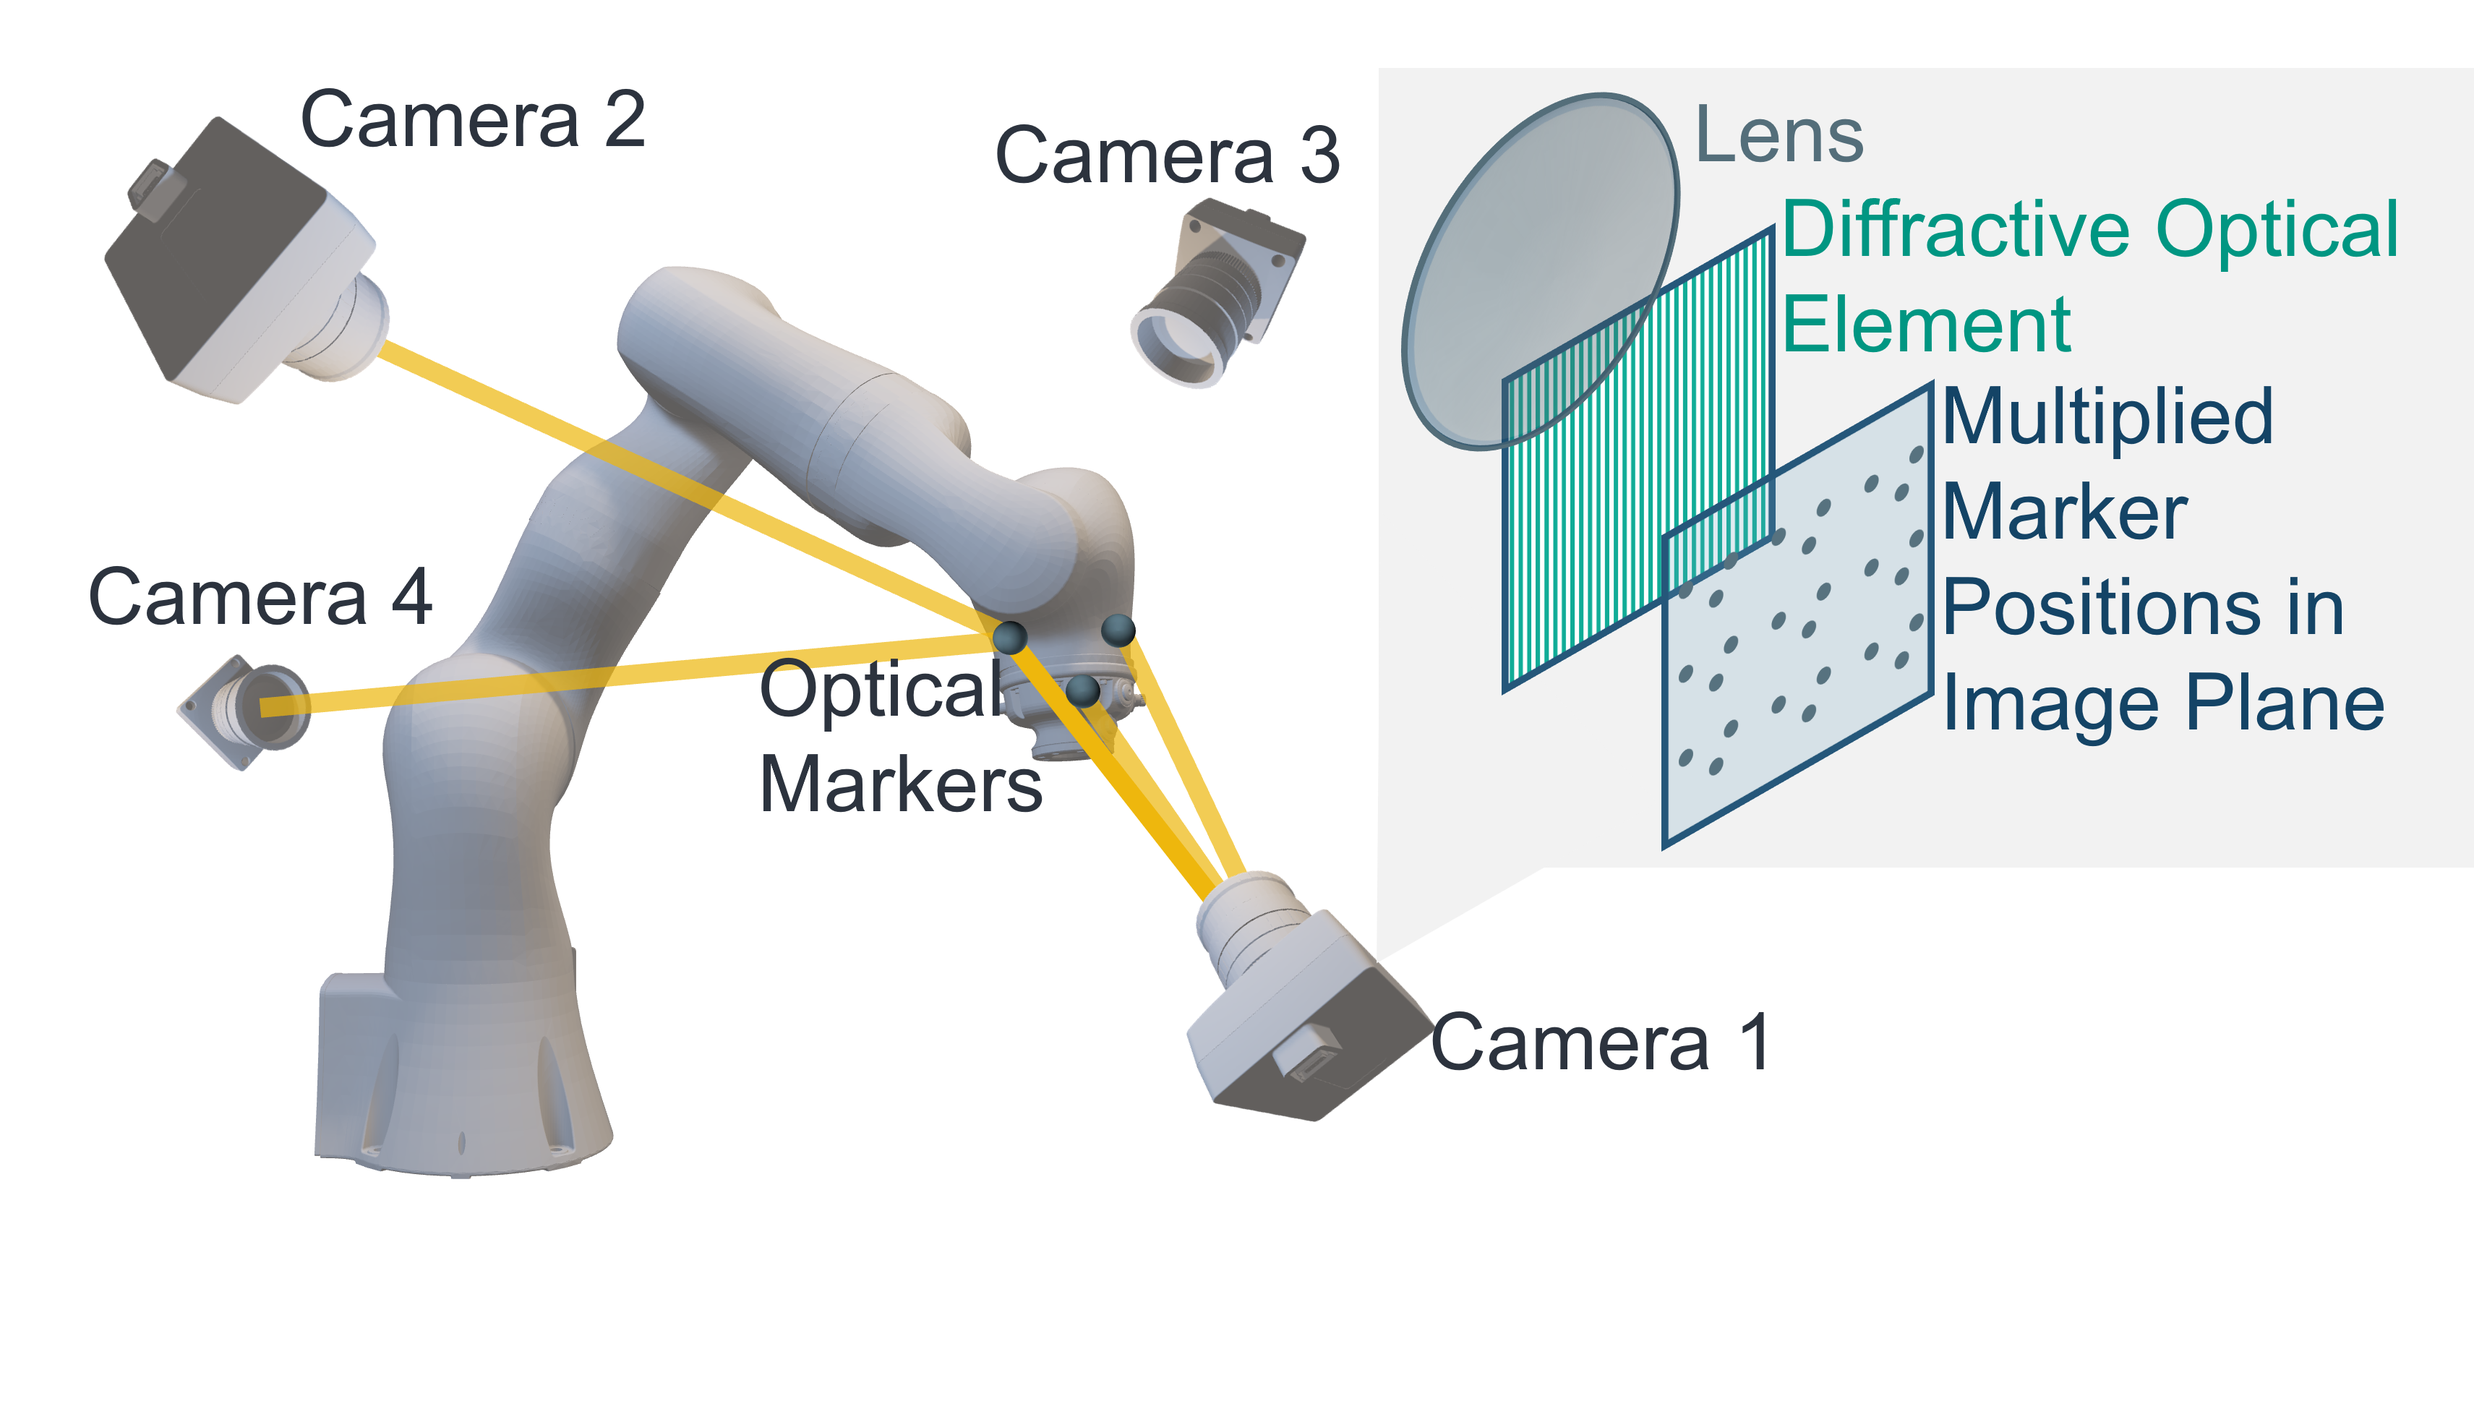
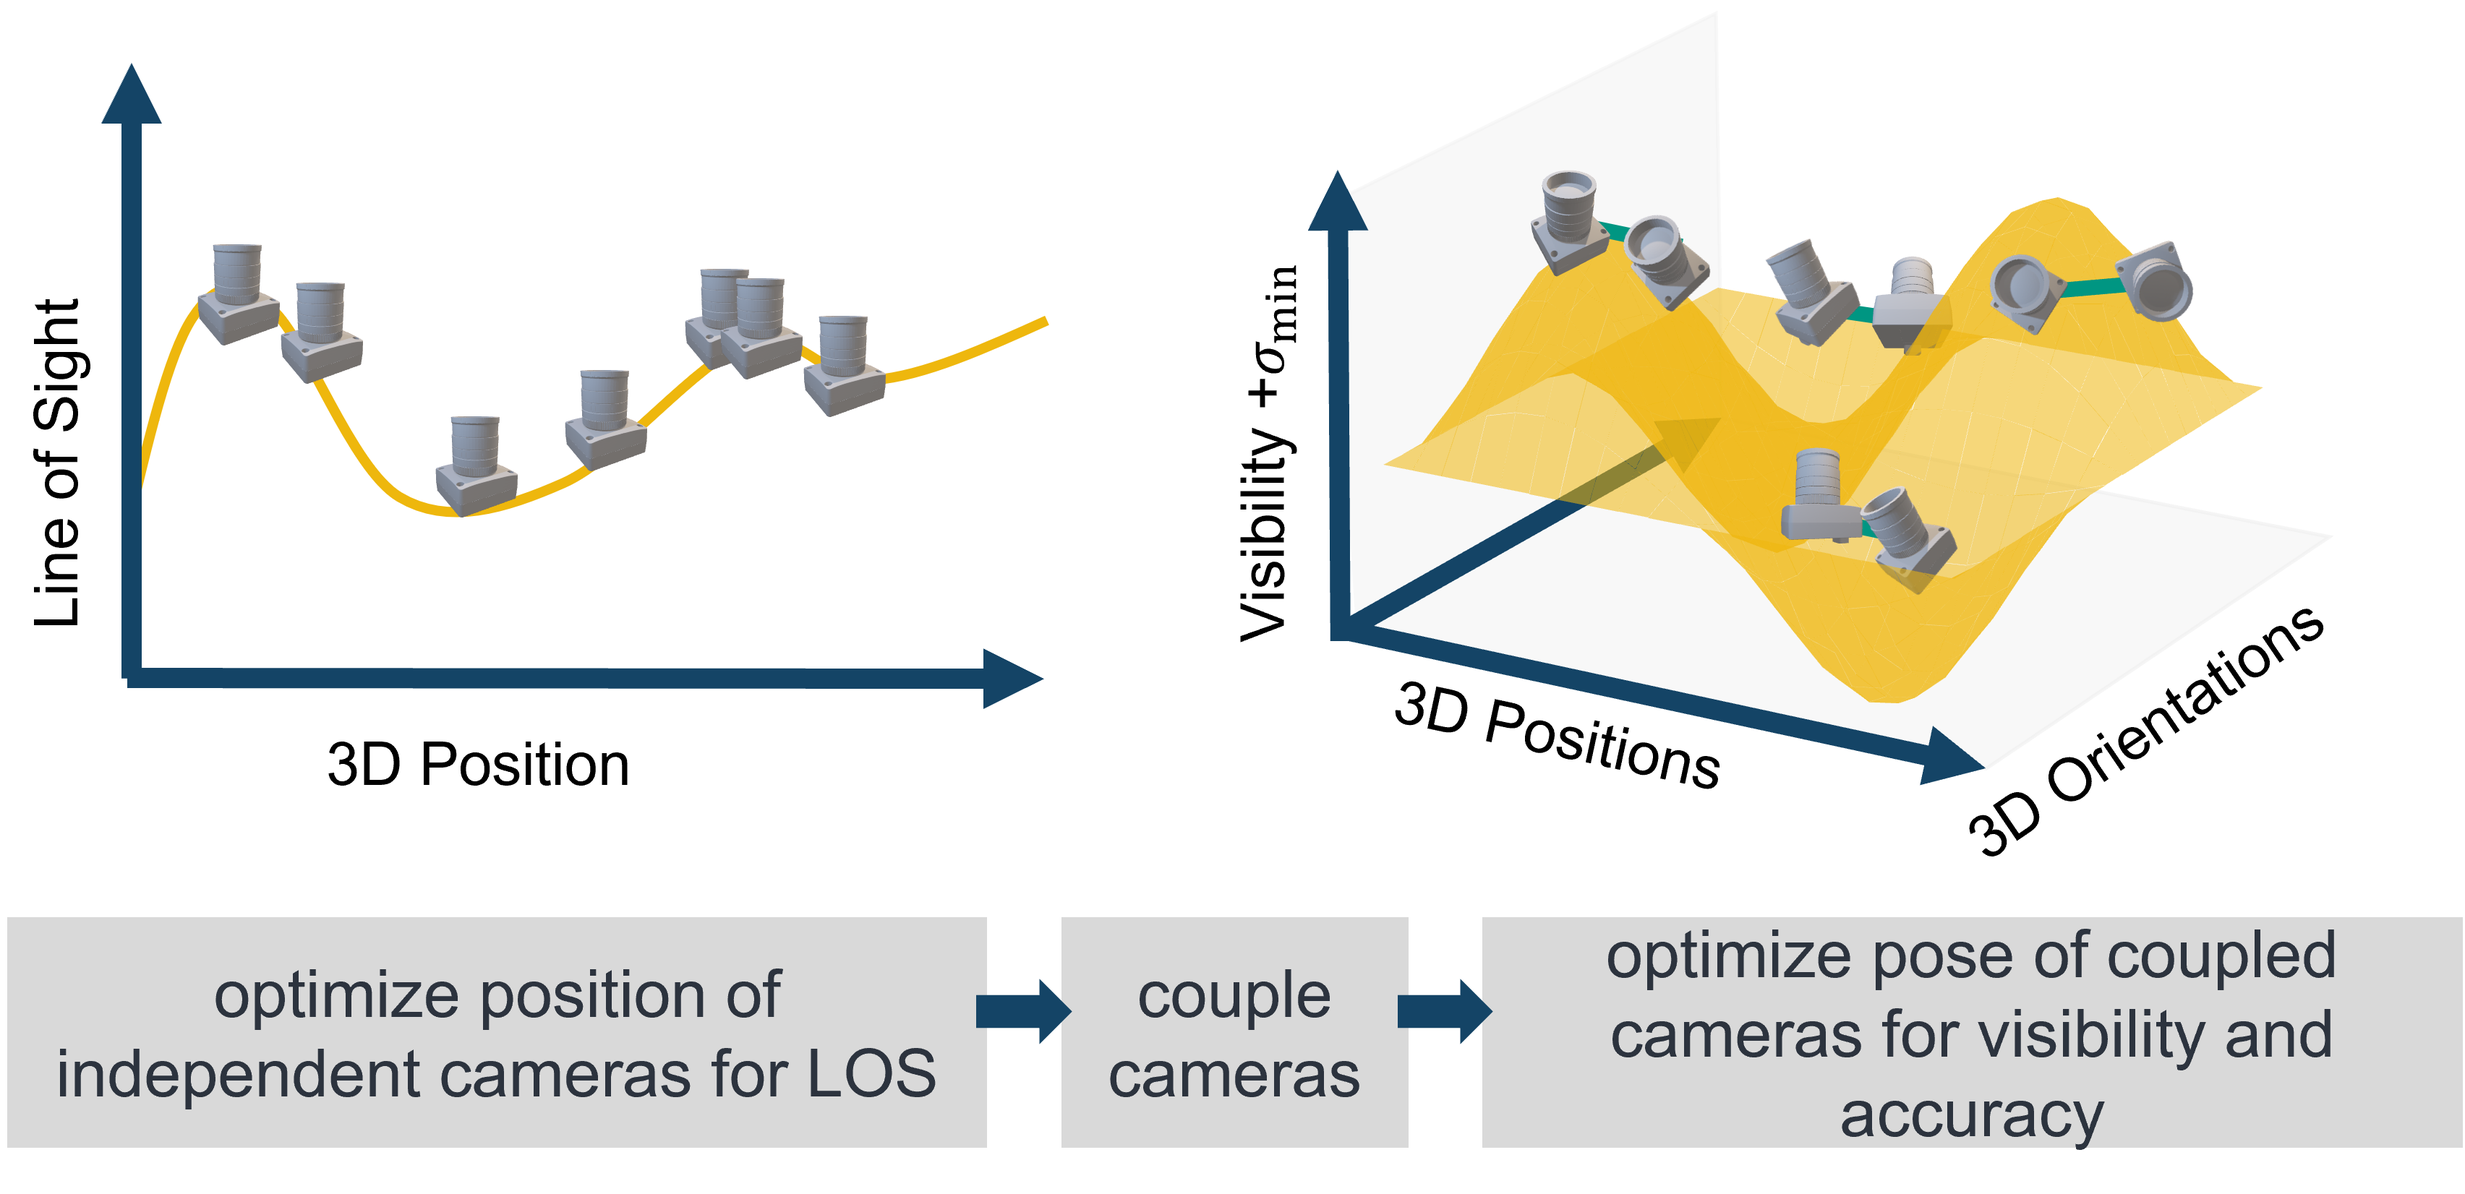
tweaked figures added abstracts

diff --git a/content/publications/ml-deployment-ros/index.md b/content/publications/ml-deployment-ros/index.md
@@ -11,7 +11,7 @@ publishDate: "2024-11-27T00:00:00Z"
 publication_types: ["article-journal"]
 publication: "*Procedia CIRP*, 130, 188-193"
 publication_short: ""
-abstract: ""
+abstract: "This paper presents a deployment concept that aims to overcome the challenges in the implementation of Machine Learning (ML) models in manufacturing and industrial environments. In these contexts, robots are not typically viewed as production machines. However, the potential for applying advanced techniques such as condition monitoring extends beyond production lines to encompass robotic systems. As a result, there arises a need for a modular solution that integrates into the existing ecosystem while accommodating the requirements of robotic environments. By embracing modularity and interoperability, our proposed deployment concept not only addresses the challenges specific to industrial robotics but also fosters a holistic approach to enhancing operational efficiency and performance in diverse manufacturing settings. For this, an easily customizable and adjustable system that handles both data acquisition and data transfer is needed. By using the Robot Operating System (ROS) for all necessary data handling, we achieve a highly modular, efficient, and easy-to-use low-code deployment pipeline. Our approach splits the different processing steps into separate nodes and automatically sets up all necessary communication channels, achieving high interchangeability and a quick time-to-deploy. The approach is explained in detail and demonstrated for the real use case of deploying models to monitor handling robots."
 summary: ""
 tags:
   - Machine Learning

diff --git a/content/publications/control-architecture-circular-factories/index.md b/content/publications/control-architecture-circular-factories/index.md
@@ -19,7 +19,7 @@ publishDate: "2025-06-16T00:00:00Z"
 publication_types: ["article-journal"]
 publication: "*Procedia CIRP*, 134, 1083-1088"
 publication_short: ""
-abstract: ""
+abstract: "Resource depletion and environmental harm highlight the need for more sustainable manufacturing methods like circular manufacturing. Circular manufacturing methods such as remanufacturing introduce uncertainties that arise due to core variability, leading to the frequent occurrence of disruptions. Therefore, an automated control structure is needed that can maintain stable high performance in the face of such uncertainties and disruptions. We present a novel architecture that is designed to enhance the resilience and robustness of automated circular factories. To achieve this, we propose a two-level approach resembling a cascaded control system. The outer layer, the production system level, is designed to ensure resilience by maintaining overall factory operations during larger disruptions. In contrast, the inner layer, the station level, focuses on robustness, managing minor disturbances and failures at individual stations. We address the allocation of responsibilities between these two levels and the modeling of commands. Our approach considers a novel integration of production stations, inspection stations and an intelligent intralogistics system to allow for a flexible and adaptable automated production system. Our approach presents the first control architecture specifically designed to address the unique uncertainties and disruptions arising from core variability in circular manufacturing."
 summary: ""
 tags:
   - Circular Factory

diff --git a/content/publications/testing-framework-ml-deployment/index.md b/content/publications/testing-framework-ml-deployment/index.md
@@ -12,7 +12,7 @@ publishDate: "2024-10-10T00:00:00Z"
 publication_types: ["article-journal"]
 publication: "*Procedia CIRP*, 127, 122-128"
 publication_short: ""
-abstract: ""
+abstract: "The deployment of machine learning models in manufacturing systems presents unique challenges, necessitating robust testing procedures to ensure reliable and efficient operation. This paper proposes an automated testing framework specifically designed to address these challenges, focusing on verifying the correct utilization of data sources, validating model functionality, and assessing the compatibility of the target machine with the deployed model. By automating the testing process, this framework aims to enhance the reliability and effectiveness of machine learning model deployment in manufacturing systems. Through a comprehensive literature review, the paper explores existing methodologies and identifies gaps in current practices. The proposed framework incorporates various test types, including unit tests, integration tests, regression tests, and performance tests, each tailored to the specific requirements of manufacturing systems. Experimental results demonstrate the framework’s effectiveness in detecting errors and failures during the deployment process. Overall, this research contributes to advancing the field of machine learning deployment in manufacturing systems and provides practical insights for practitioners seeking to optimize the reliability and efficiency of their deployed models."
 summary: ""
 tags:
   - Machine Learning

diff --git a/content/publications/generalised-information-modell-bayesian/index.md b/content/publications/generalised-information-modell-bayesian/index.md
@@ -11,7 +11,7 @@ publishDate: "2025-06-11T00:00:00Z"
 publication_types: ["chapter"]
 publication: "In *Lecture Notes in Production Engineering*, pp. 167-177, Springer"
 publication_short: ""
-abstract: ""
+abstract: "The advancement of Industry 4.0 necessitates the abstraction of production processes to develop software-defined value streams. Existing approaches often suffer from limitations such as inflexibility and lack of scalability when individually modelling complex, heterogeneous production processes. These limitations hinder effective integration and interoperability within the Industry 4.0 framework. Given these challenges, this approach introduces an innovative one size fits all information model, enabling comprehensive capability matching across diverse production systems. The proposed graph-based methodology enables the probabilistic description of products and their features resulting from various production processes. This also enables the representation and investigation of their part-specific dependencies. The developed graph-based representation will be demonstrated on a complex product through elemental manufacturing processes. This standardises the description format of these production technologies. This crucial standardisation enables addressing the complexities of modern industrial processes. It also supports deploying software-defined value streams, optimising efficiency and adaptability in smart manufacturing environments"
 summary: ""
 tags:
   - Bayesian Network

diff --git a/content/publications/laser-tracker-placement-optimization/index.md b/content/publications/laser-tracker-placement-optimization/index.md
@@ -10,7 +10,7 @@ publishDate: "2025-07-22T00:00:00Z"
 publication_types: ["paper-conference"]
 publication: "In *Production at the Leading Edge of Technology (WGP 2024)*, Lecture Notes in Production Engineering, pp. 334-341, Springer"
 publication_short: ""
-abstract: ""
+abstract: "In recent years, modular and reconfigurable manufacturing systems have gained attention for their fast adaptability to product changes. While system design is now highly automated, designing the verification setup used to verify system properties such as stiffness, accuracy, precision, or other quantities requiring measurement of position or positional deviation remains a manual challenge. This often involves tasks like placing external sensors to measure system performance. This paper argues that design optimization approaches for manufacturing systems can also automate the design of the verification setup. We demonstrate this by optimizing the placement of a laser tracker system with markers within our simulation environment. This task can be complex due to line-of-sight constraints and the simultaneous measurement of multiple systems. We present a straightforward optimization approach to showcase the potential for automation in this area."
 summary: ""
 tags:
   - Laser Tracker

diff --git a/content/publications/wbk-assembly-benchmark/index.md b/content/publications/wbk-assembly-benchmark/index.md
@@ -10,7 +10,7 @@ publishDate: "2025-06-05T00:00:00Z"
 publication_types: ["dataset"]
 publication: ""
 publication_short: ""
-abstract: ""
+abstract: "The wbk Industrial Assembly Task Board is a modular benchmark designed to address the complexities of robotic assembly tasks beyond the traditional peg-in-hole paradigm. This task board provides a diverse set of challenges that simulate real-world industrial assembly scenarios. Each module is tailored to test specific assembly complexities, including precision insertion, compliant assembly, and advanced planning for multi-part interactions.The modular design enables researchers to mix and match tasks, allowing for customized benchmarks that address specific research questions. All components are 3D-printable, ensuring accessibility and reproducibility across the robotics community. This paper presents the design rationale, task descriptions, and evaluation criteria for the task board, along with instructions on how to build the board yourself."
 summary: ""
 tags:
   - Assembly
@@ -18,7 +18,7 @@ tags:
   - Manufacturing
 featured: false
 image:
-  filename: taskboard.webp
+  filename: taskboard.jpeg
   focal_point: Center
   preview_only: false
 hugoblox:

diff --git a/content/publications/milling-two-coupled-robots/index.md b/content/publications/milling-two-coupled-robots/index.md
@@ -12,7 +12,7 @@ publishDate: "2024-11-27T00:00:00Z"
 publication_types: ["article-journal"]
 publication: "*Procedia CIRP*"
 publication_short: ""
-abstract: ""
+abstract: "Industrial robots are commonly used in various industries due to their flexibility. However, their adoption for machining tasks is minimal because of the low dynamic stiffness characteristic of serial kinematic chains. To overcome this problem, we propose coupling two industrial robots at the flanges to form a parallel kinematic machining system. Although parallel kinematic chains are inherently stiffer, one possible disadvantage of the proposed system is that it is heavily overactuated. We perform a modal analysis to show that this may be an advantage, as the redundant degrees of freedom can be used to shift the natural frequencies by applying tension to the coupling module. To demonstrate the validity of our approach, we perform a milling experiment using our coupled system. An external measurement system is used to show that tensioning the coupling module causes a deformation of the system. We further show that this deformation is static over the tool path and can be compensated for."
 summary: ""
 tags:
   - Milling

diff --git a/content/publications/optimal-robot-workpiece-placement/index.md b/content/publications/optimal-robot-workpiece-placement/index.md
@@ -9,7 +9,7 @@ publishDate: "2022-09-04T00:00:00Z"
 publication_types: ["chapter"]
 publication: "In *Advances in System-Integrated Intelligence (SYSINT 2022)*, Lecture Notes in Networks and Systems, pp. 252-261, Springer"
 publication_short: ""
-abstract: ""
+abstract: "When choosing an industrial robot, repeatability is often one of the most important decision factors. But repeatability is not a global property, instead, it strongly depends on the robot’s workspace position. This is currently ignored in robot cell planning leading to a loss of actual repeatability. This paper not only quantifies this loss but presents a new algorithm that finds the optimal position of a workpiece such that repeatability is optimized. The predictions of this algorithm are verified using digital twin simulations on different robots which show up to nine times higher repeatability than with the unoptimized position."
 summary: ""
 tags:
   - Robotics

diff --git a/content/publications/sensor-system-industrial-robots/index.md b/content/publications/sensor-system-industrial-robots/index.md
@@ -13,7 +13,7 @@ publishDate: "2026-02-12T00:00:00Z"
 publication_types: ["article-journal"]
 publication: "*Procedia CIRP*, 138, 246-251"
 publication_short: ""
-abstract: ""
+abstract: "For decades, laser tracker and total stations have been the state of the art to measure externally the position disturbances in robotic systems. High system costs limit their usage for control systems in common production machines. We present details for an alternative software-driven approach. First, we derive a metrological error model for a new self-referencing, high-precision photogrammetry sensor system. Second, we propose a heuristic software approach, which combines an optical simulation pipeline, with motion planning and camera placement to achieve the best possible accuracy. Finally, we outline the hardware implementation and integration in a closed loop control system."
 summary: ""
 tags:
   - Robotics

diff --git a/content/publications/highly-dynamic-robotic-leg/index.md b/content/publications/highly-dynamic-robotic-leg/index.md
@@ -11,7 +11,7 @@ publishDate: "2022-07-01T00:00:00Z"
 publication_types: ["paper-conference"]
 publication: "In *ACTUATOR Conference 2022*"
 publication_short: ""
-abstract: ""
+abstract: "Due to a predisposition of DNA to generate symmetric anatomy, there are no tripedal animals in nature. Yet, threelegged walking might be the sweet spot between the energy efficiency of bipeds and the stability of quadrupeds. This paper presents the non-biomimetic leg for the TriPed, a novel three-legged mobile walking robot that aims to study the advantages and disadvantages of three-legged walking. We showcase its new non-biomimetic leg design that allows for fast repositioning by keeping the leg mass close to the body. This is done using physical experiments as well as a simscape simulation. The experiments show that the legs are capable of moving about 3 m/s."
 summary: ""
 tags:
   - Walking Robots

diff --git a/content/publications/beyond-proxies-robot-cell-layout/index.md b/content/publications/beyond-proxies-robot-cell-layout/index.md
@@ -9,7 +9,7 @@ publishDate: "2025-04-01T00:00:00Z"
 publication_types: ["article-journal"]
 publication: "*CIRP Annals*"
 publication_short: ""
-abstract: ""
+abstract: "Cycle time is critical in robotic cells where material handling often presents a bottleneck and in turn depends on the cell layout. Optimizing robot cell layouts is therefore essential for improving cycle time. We show that the proxy objectives used for this optimization are poor approximations of the real cycle time and introduce a optimizer that directly measures the duration of the time-optimal robot trajectory. We show that it can offer competitive performance even faster than proxy-based optimization. We validate this performance on multiple problems and show how to integrate it into the cell design process of a manufacturing cell."
 summary: ""
 tags:
   - Robotics
